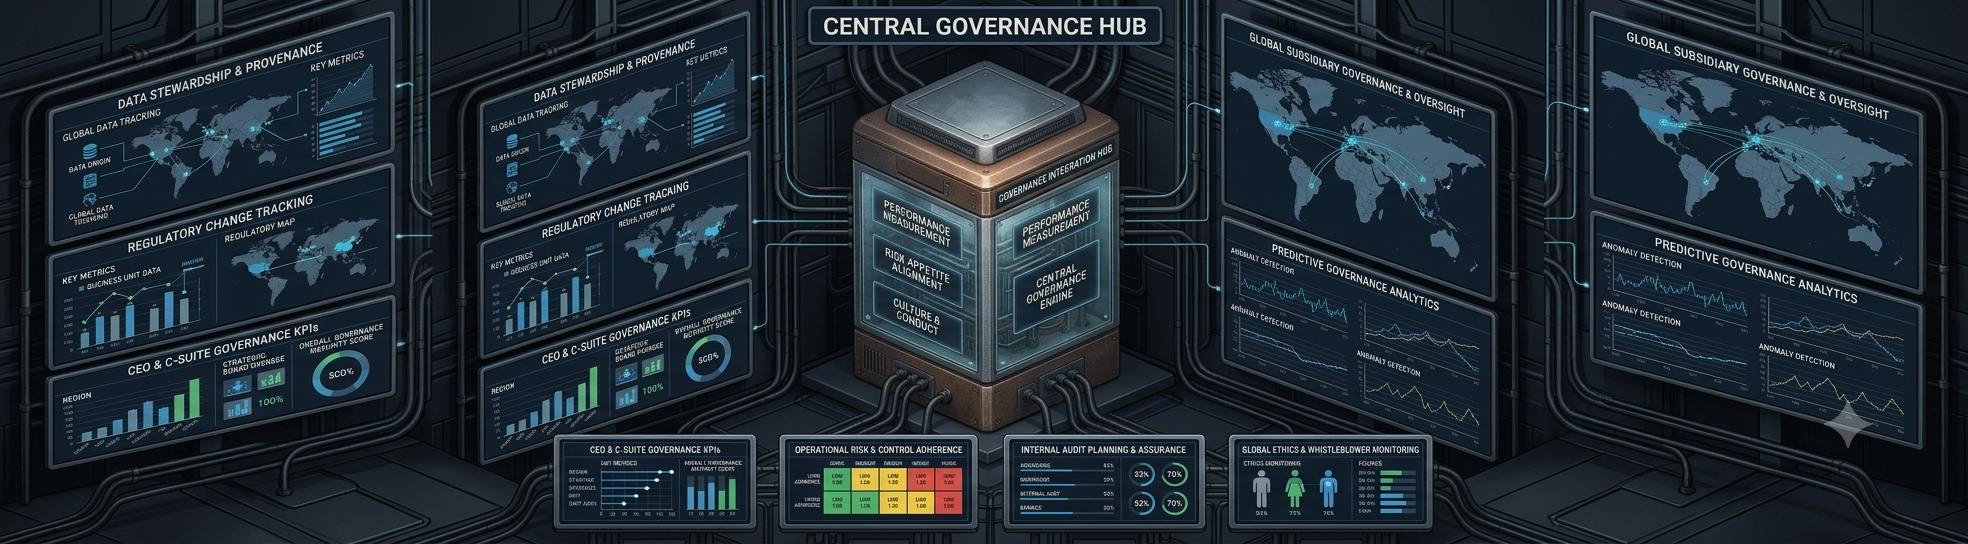
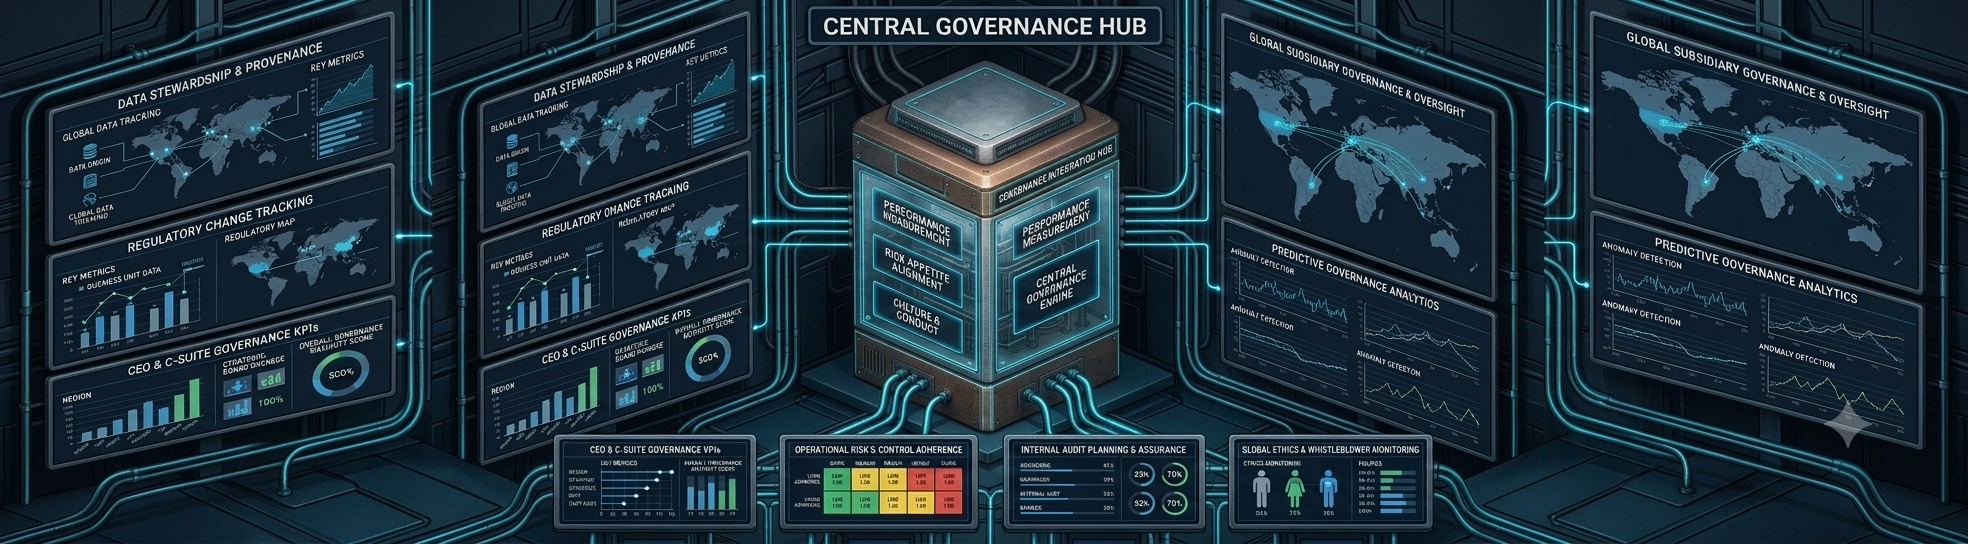
feat(pilares): implement Innovate Level 2 page (Block A) + refresh Govern hero
Give the Innovate pillar the full Level-2 treatment, mirroring
Transform/Secure/Govern:
- Hero copy + CTAs, "The SAP Innovation Challenge" pressures, Business
  Outcomes and the redefined 7-service set (BTP Advisory, Integration Suite,
  AI & Automation, Extension Development, Clean Core Innovation, Data &
  Analytics Enablement, Intelligent Agents for SAP Operations).
- Innovate framework via PillarFramework (Discover → Design → Build →
  Integrate → Scale).
- WebP hero background (R&D and Innovation Engine, 3.6:1) for the pillar and
  service heros, replacing the placeholder SVG.
- Full EN/ES i18n copy with verified key parity.
- Refresh the Govern hero background with the final Central Governance Hub art.

Service cards render as static for now; Level-3 pages and old-slug redirects
come in Block B.

diff --git a/frontend/pages/pilares/[slug]/index.vue b/frontend/pages/pilares/[slug]/index.vue
@@ -92,7 +92,7 @@ const featured = computed(() => {
 
 // Pillars that have the full Level-2 document treatment (hero copy + services
 // heading override). The copy itself lives in i18n (locales/en|es.json).
-const docPillars = ['transform', 'secure', 'govern']
+const docPillars = ['transform', 'secure', 'govern', 'innovate']
 
 // Optional hero override: doc-specific headline / subheadline / CTAs.
 const heroOverride = computed(() => {
@@ -116,7 +116,8 @@ const servicesHeading = computed(() =>
 const outcomeKeysByPillar: Record<string, string[]> = {
   transform: ['risk', 'value', 'security', 'architecture', 'visibility'],
   secure: ['accessRisk', 'compliance', 'auditReady', 'emergencyAccess', 'roleArchitecture', 'operationalExposure', 'visibility'],
-  govern: ['visibility', 'control', 'accountability', 'risk', 'reporting', 'consumption', 'decisions']
+  govern: ['visibility', 'control', 'accountability', 'risk', 'reporting', 'consumption', 'decisions'],
+  innovate: ['fasterInnovation', 'cleanerArchitecture', 'betterIntegration', 'higherAutomation', 'aiAdoption', 'dataVisibility', 'scalable']
 }
 const outcomesTitle = computed(() =>
   outcomeKeysByPillar[slug] ? t(`pillarDetail.outcomes.${slug}.title`) : ''
@@ -158,6 +159,16 @@ const pressuresByPillar: Record<string, { key: string; icon: string }[]> = {
     { key: 'decisionSupport', icon: 'star' },
     { key: 'alignment', icon: 'cloud' },
     { key: 'measurement', icon: 'chart' }
+  ],
+  innovate: [
+    { key: 'legacyArch', icon: 'server' },
+    { key: 'customCode', icon: 'alert' },
+    { key: 'integration', icon: 'layers' },
+    { key: 'btpAdoption', icon: 'cloud' },
+    { key: 'aiUseCases', icon: 'star' },
+    { key: 'cleanCore', icon: 'shield' },
+    { key: 'dataProcesses', icon: 'chart' },
+    { key: 'governance', icon: 'shield' }
   ]
 }
 const imperative = computed(() => {
@@ -177,7 +188,8 @@ const imperative = computed(() => {
 
 // Pillar Framework (Section 3) — ordered stage keys here, copy lives in i18n.
 const frameworkStagesByPillar: Record<string, string[]> = {
-  govern: ['align', 'structure', 'control', 'report', 'decide']
+  govern: ['align', 'structure', 'control', 'report', 'decide'],
+  innovate: ['discover', 'design', 'build', 'integrate', 'scale']
 }
 const framework = computed(() => {
   const list = frameworkStagesByPillar[slug]
@@ -212,7 +224,7 @@ const framework = computed(() => {
       <img v-else-if="slug === 'secure'" src="/backgrounds/secure-hero.webp" class="absolute inset-0 -z-20 h-full w-full object-cover" aria-hidden="true" />
       <img v-else-if="slug === 'operate'" src="/backgrounds/operate-hero.svg" class="absolute inset-0 -z-20 h-full w-full object-cover" aria-hidden="true" />
       <img v-else-if="slug === 'govern'" src="/backgrounds/govern-hero.webp" class="absolute inset-0 -z-20 h-full w-full object-cover" aria-hidden="true" />
-      <img v-else-if="slug === 'innovate'" src="/backgrounds/innovate-hero.svg" class="absolute inset-0 -z-20 h-full w-full object-cover" aria-hidden="true" />
+      <img v-else-if="slug === 'innovate'" src="/backgrounds/innovate-hero.webp" class="absolute inset-0 -z-20 h-full w-full object-cover" aria-hidden="true" />
       <div v-else class="absolute inset-0 bg-core-ink/80" />
       <div class="absolute inset-0 -z-10 bg-core-orange/5" aria-hidden="true" />
       <ParticleField v-if="slug === 'transform' || slug === 'secure' || slug === 'operate' || slug === 'govern' || slug === 'innovate'" class="-z-10" />

diff --git a/frontend/data/landing.ts b/frontend/data/landing.ts
@@ -61,7 +61,7 @@ export const pillarServiceKeys: Record<string, string[]> = {
   secure: ['sapSecurity', 'sapGrc', 'sod', 'rbac', 'emergencyAccess', 'securityManagedServices', 's4hanaReadiness'],
   operate: ['sapAms', 'sapBasis', 'cloudAlm', 'monitoringAutomation', 'rootCauseAnalysis', 'technicalGovernance'],
   govern: ['pmoProjectGovernance', 'programManagement', 'serviceGovernance', 'deliveryGovernance', 'complianceControl', 'kpiReporting', 'methodologyAdvisory'],
-  innovate: ['aiAutomation', 'btpAutomation', 'intelliguard', 'opsIntelligencePlatform', 'predictiveMonitoring']
+  innovate: ['btpAdvisory', 'integrationSuite', 'aiAutomation', 'extensionDevelopment', 'cleanCoreInnovation', 'dataAnalytics', 'intelligentAgents']
 }
 
 /**

diff --git a/frontend/pages/pilares/[slug]/[service].vue b/frontend/pages/pilares/[slug]/[service].vue
@@ -62,7 +62,7 @@ const pillarHeroBg: Record<string, string> = {
   secure: '/backgrounds/secure-hero.webp',
   operate: '/backgrounds/operate-hero.svg',
   govern: '/backgrounds/govern-hero.webp',
-  innovate: '/backgrounds/innovate-hero.svg',
+  innovate: '/backgrounds/innovate-hero.webp',
 }
 const heroBgSrc = pillarHeroBg[pillarSlug] ?? null
 // WebP heros are panoramic photos that fill the whole band (object-cover);
